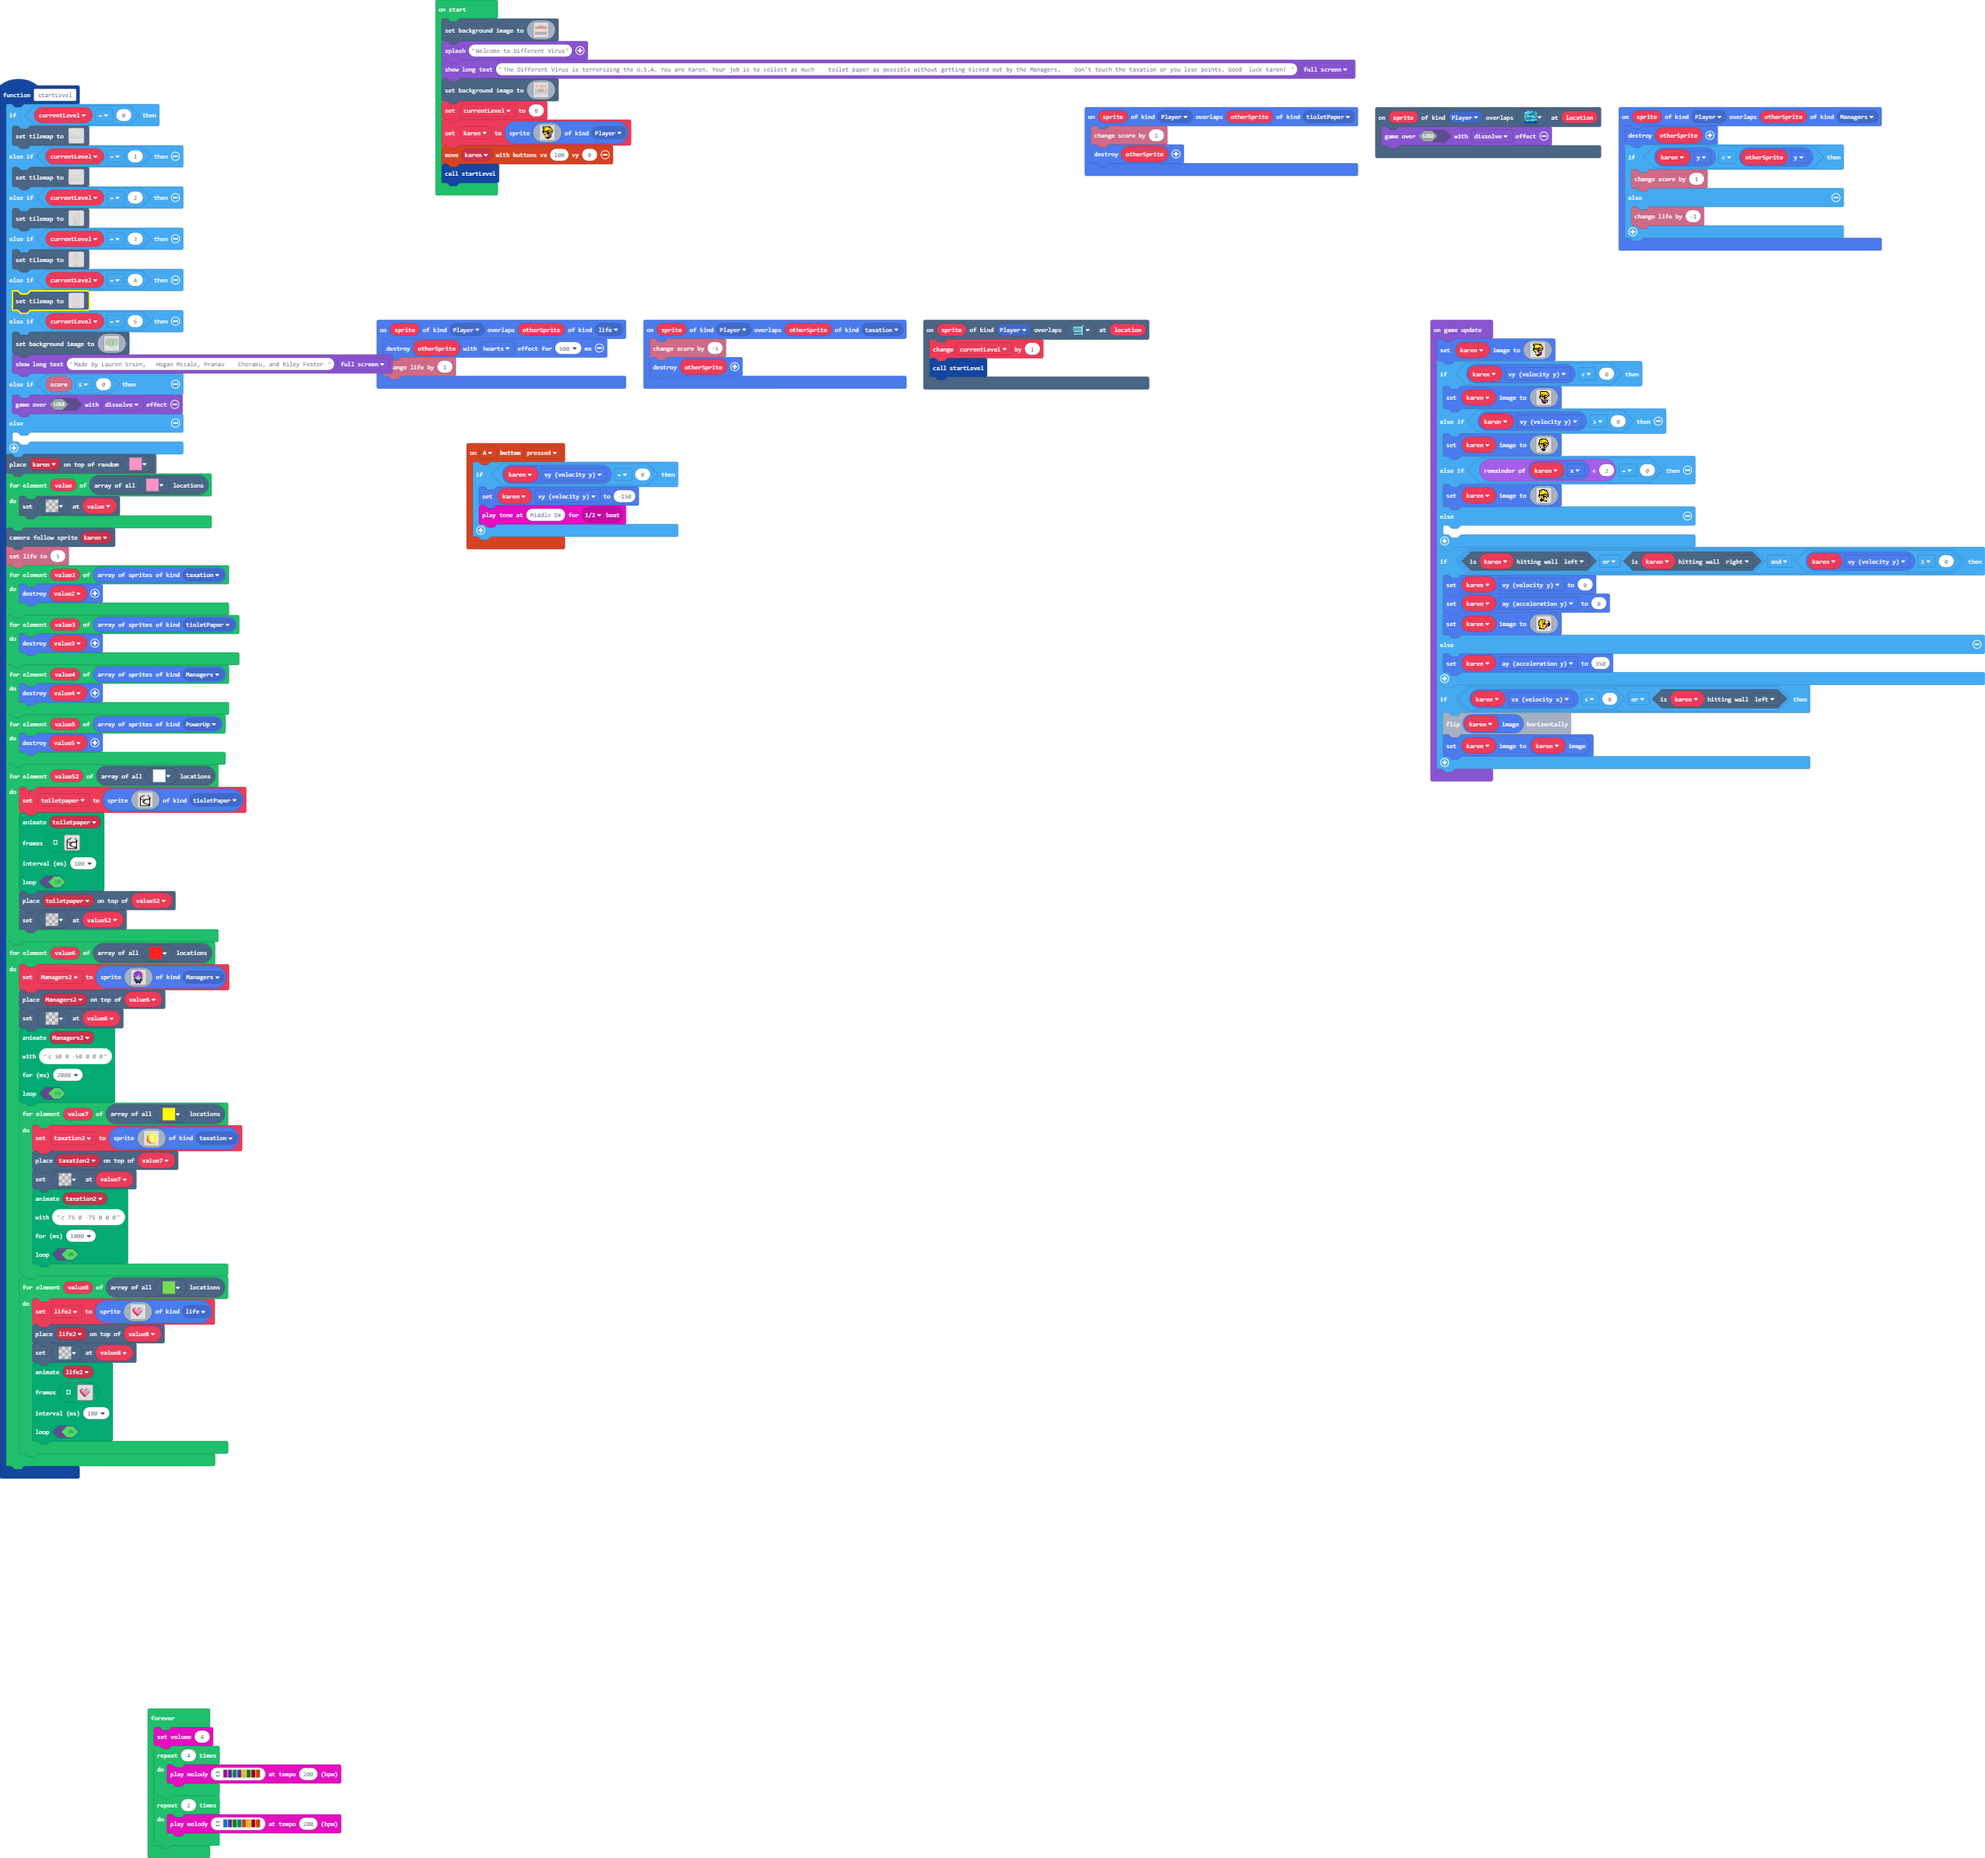
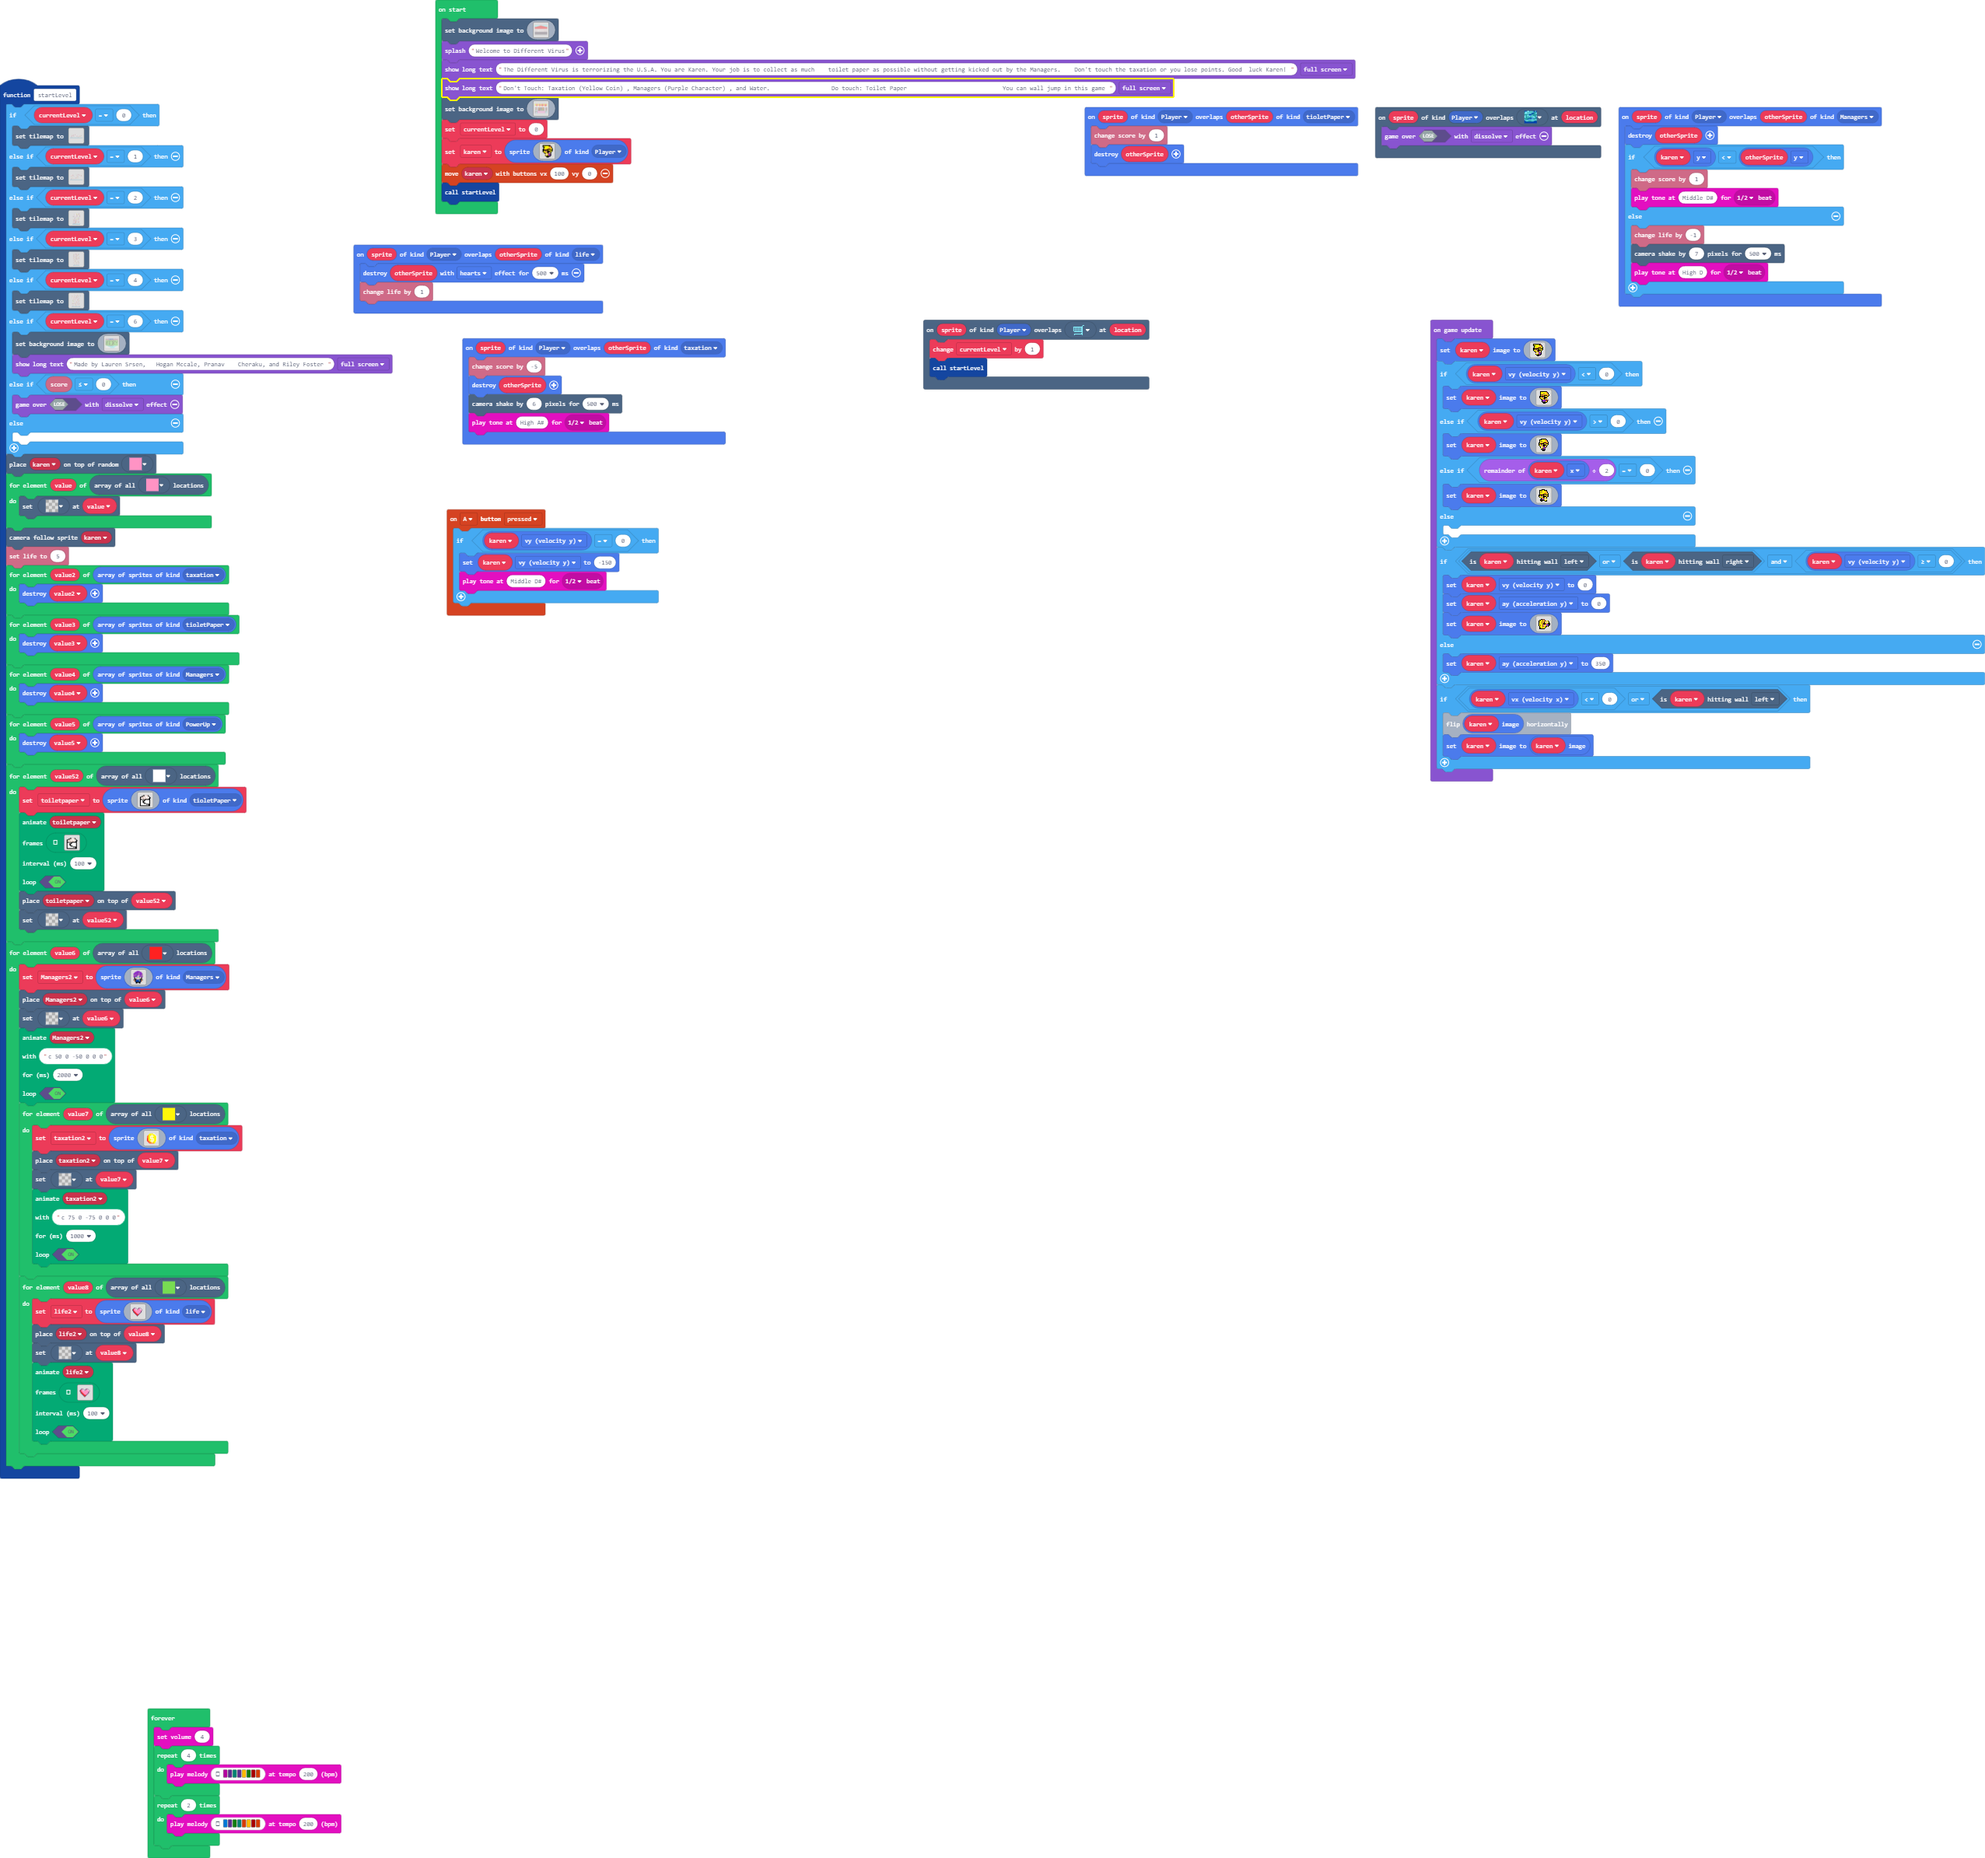
Update main.blocks, main.ts

Changed region(s): [[0.1548, 0.031, 0.5882, 0.3407], [0.8049, 0.0929, 0.9596, 0.1859]]

diff --git a/main.ts b/main.ts
@@ -284,8 +284,11 @@ sprites.onOverlap(SpriteKind.Player, SpriteKind.Managers, function (sprite, othe
     otherSprite.destroy()
     if (karen.y < otherSprite.y) {
         info.changeScoreBy(1)
+        music.playTone(311, music.beat(BeatFraction.Half))
     } else {
         info.changeLifeBy(-1)
+        scene.cameraShake(7, 500)
+        music.playTone(587, music.beat(BeatFraction.Half))
     }
 })
 controller.A.onEvent(ControllerButtonEvent.Pressed, function () {
@@ -301,6 +304,8 @@ sprites.onOverlap(SpriteKind.Player, SpriteKind.life, function (sprite, otherSpr
 sprites.onOverlap(SpriteKind.Player, SpriteKind.taxation, function (sprite, otherSprite) {
     info.changeScoreBy(-5)
     otherSprite.destroy()
+    scene.cameraShake(6, 500)
+    music.playTone(932, music.beat(BeatFraction.Half))
 })
 scene.onOverlapTile(SpriteKind.Player, myTiles.tile8, function (sprite, location) {
     currentLevel += 1
@@ -1279,6 +1284,7 @@ c c c c c c c c c c c c c c c c c c c c c c c c c c c c c c c c c c c c c c c c 
 `)
 game.splash("Welcome to Different Virus")
 game.showLongText("The Different Virus is terrorizing the U.S.A. You are Karen. Your job is to collect as much    toilet paper as possible without getting kicked out by the Managers.    Don't touch the taxation or you lose points. Good  luck Karen! ", DialogLayout.Full)
+game.showLongText("Don't Touch: Taxation (Yellow Coin) , Managers (Purple Character) , and Water.                  Do touch: Toilet Paper                            You can wall jump in this game ", DialogLayout.Full)
 scene.setBackgroundImage(img`
 5 5 5 5 5 5 5 5 5 5 5 5 5 5 5 5 5 5 5 5 5 5 5 5 5 5 5 5 5 5 5 5 5 5 5 5 5 5 5 5 5 5 5 5 5 5 5 5 5 5 5 5 5 5 5 5 5 5 5 5 5 5 5 5 5 5 5 5 5 5 5 5 5 5 5 5 5 5 5 5 5 5 5 5 5 5 5 5 5 5 5 5 5 5 5 5 5 5 5 5 5 5 5 5 5 5 5 5 5 5 5 5 5 5 5 5 5 5 5 5 5 5 5 5 5 5 5 5 5 5 5 5 5 5 5 5 5 5 5 5 5 5 5 5 5 5 5 5 5 5 5 5 5 5 5 5 5 5 5 5 
 5 5 5 5 5 5 5 5 5 5 5 5 5 5 5 5 5 5 5 5 5 5 5 5 5 5 5 5 5 5 5 5 5 5 5 5 5 5 5 5 5 5 5 5 5 5 5 5 5 5 5 5 5 5 5 5 5 5 5 5 5 5 5 5 5 5 5 5 5 5 5 5 5 5 5 5 5 5 5 5 5 5 5 5 5 5 5 5 5 5 5 5 5 5 5 5 5 5 5 5 5 5 5 5 5 5 5 5 5 5 5 5 5 5 5 5 5 5 5 5 5 5 5 5 5 5 5 5 5 5 5 5 5 5 5 5 5 5 5 5 5 5 5 5 5 5 5 5 5 5 5 5 5 5 5 5 5 5 5 5 
